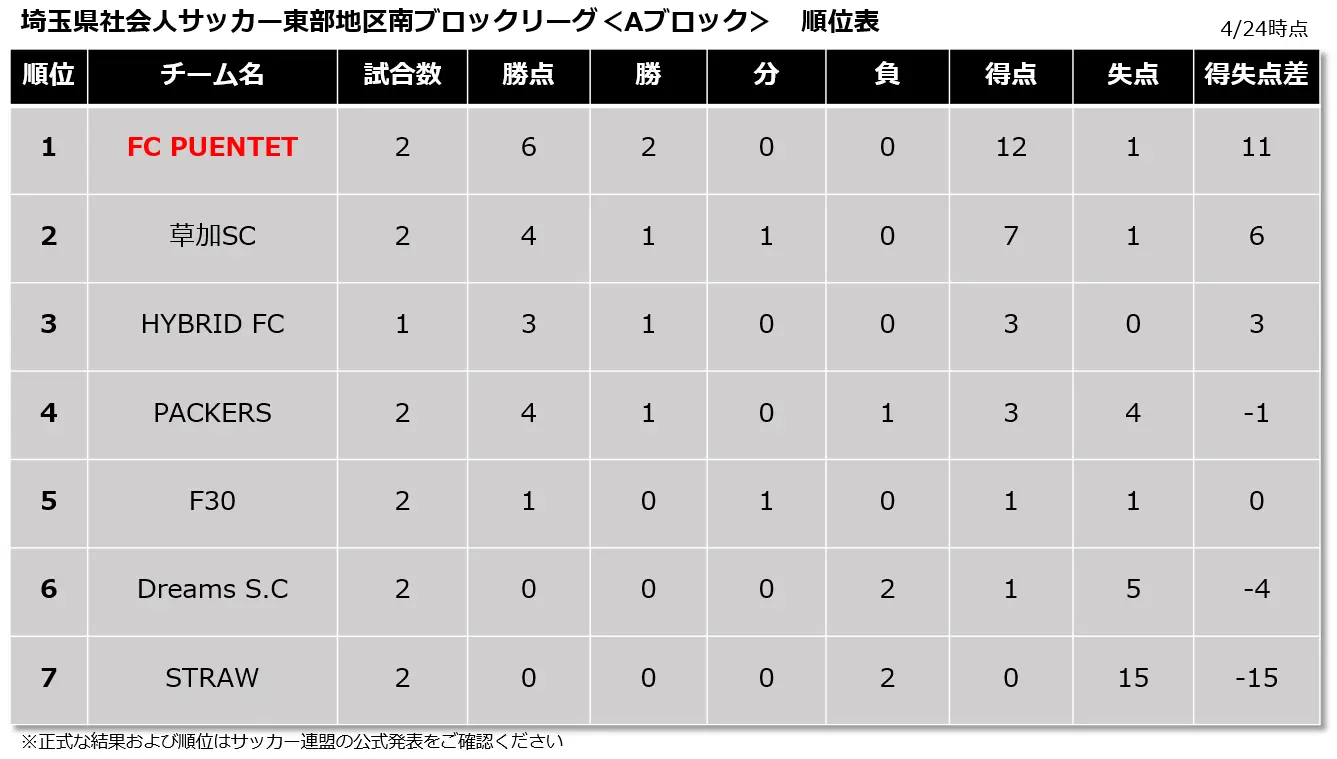
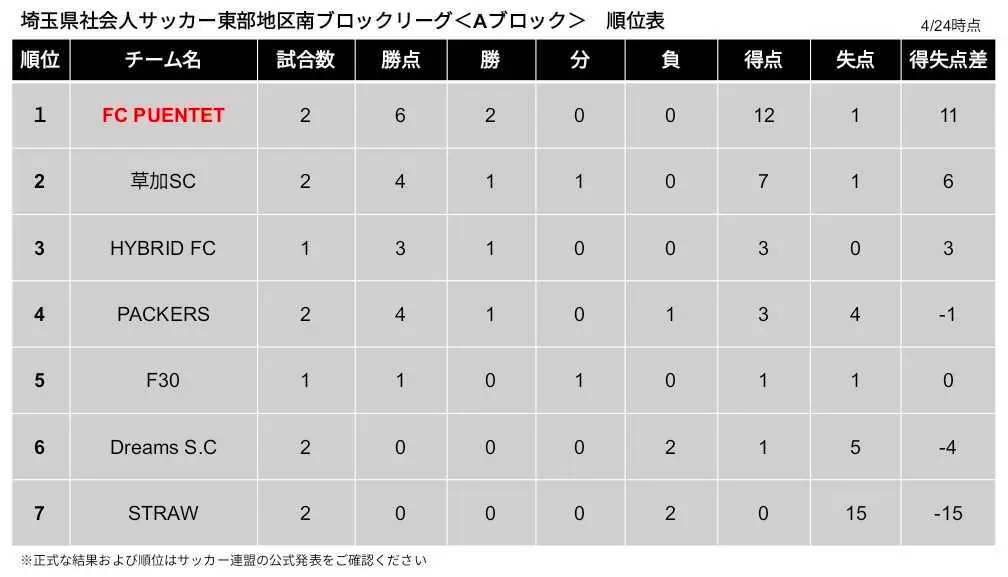
:art: トップページの画像を差し替え

diff --git a/apps/frontend/src/pages/index.tsx b/apps/frontend/src/pages/index.tsx
@@ -1,5 +1,6 @@
 import { motion } from 'framer-motion';
 import { GetStaticProps, NextPage } from 'next';
+import Image from 'next/image';
 import { MainLayout } from '@/components/Layout';
 import { Match } from '@/features/matches/types';
 import { News, NewsCardList } from '@/features/news';
@@ -31,6 +32,15 @@ const TopScreen: NextPage<TopScreenProps> = ({ topNewsList, topMatchesList }) =>
 
         <section className='mb-32 mt-8'>
           <NewsCardList newsList={topNewsList} />
+        </section>
+
+        <section className='m-auto mb-32 max-w-[1000px] px-4'>
+          <Image
+            src='/assets/image/matches.webp'
+            width={989}
+            height={539}
+            alt='試合情報'
+          />
         </section>
 
         <section className='m-auto mb-32 max-w-[1000px] px-4'>
